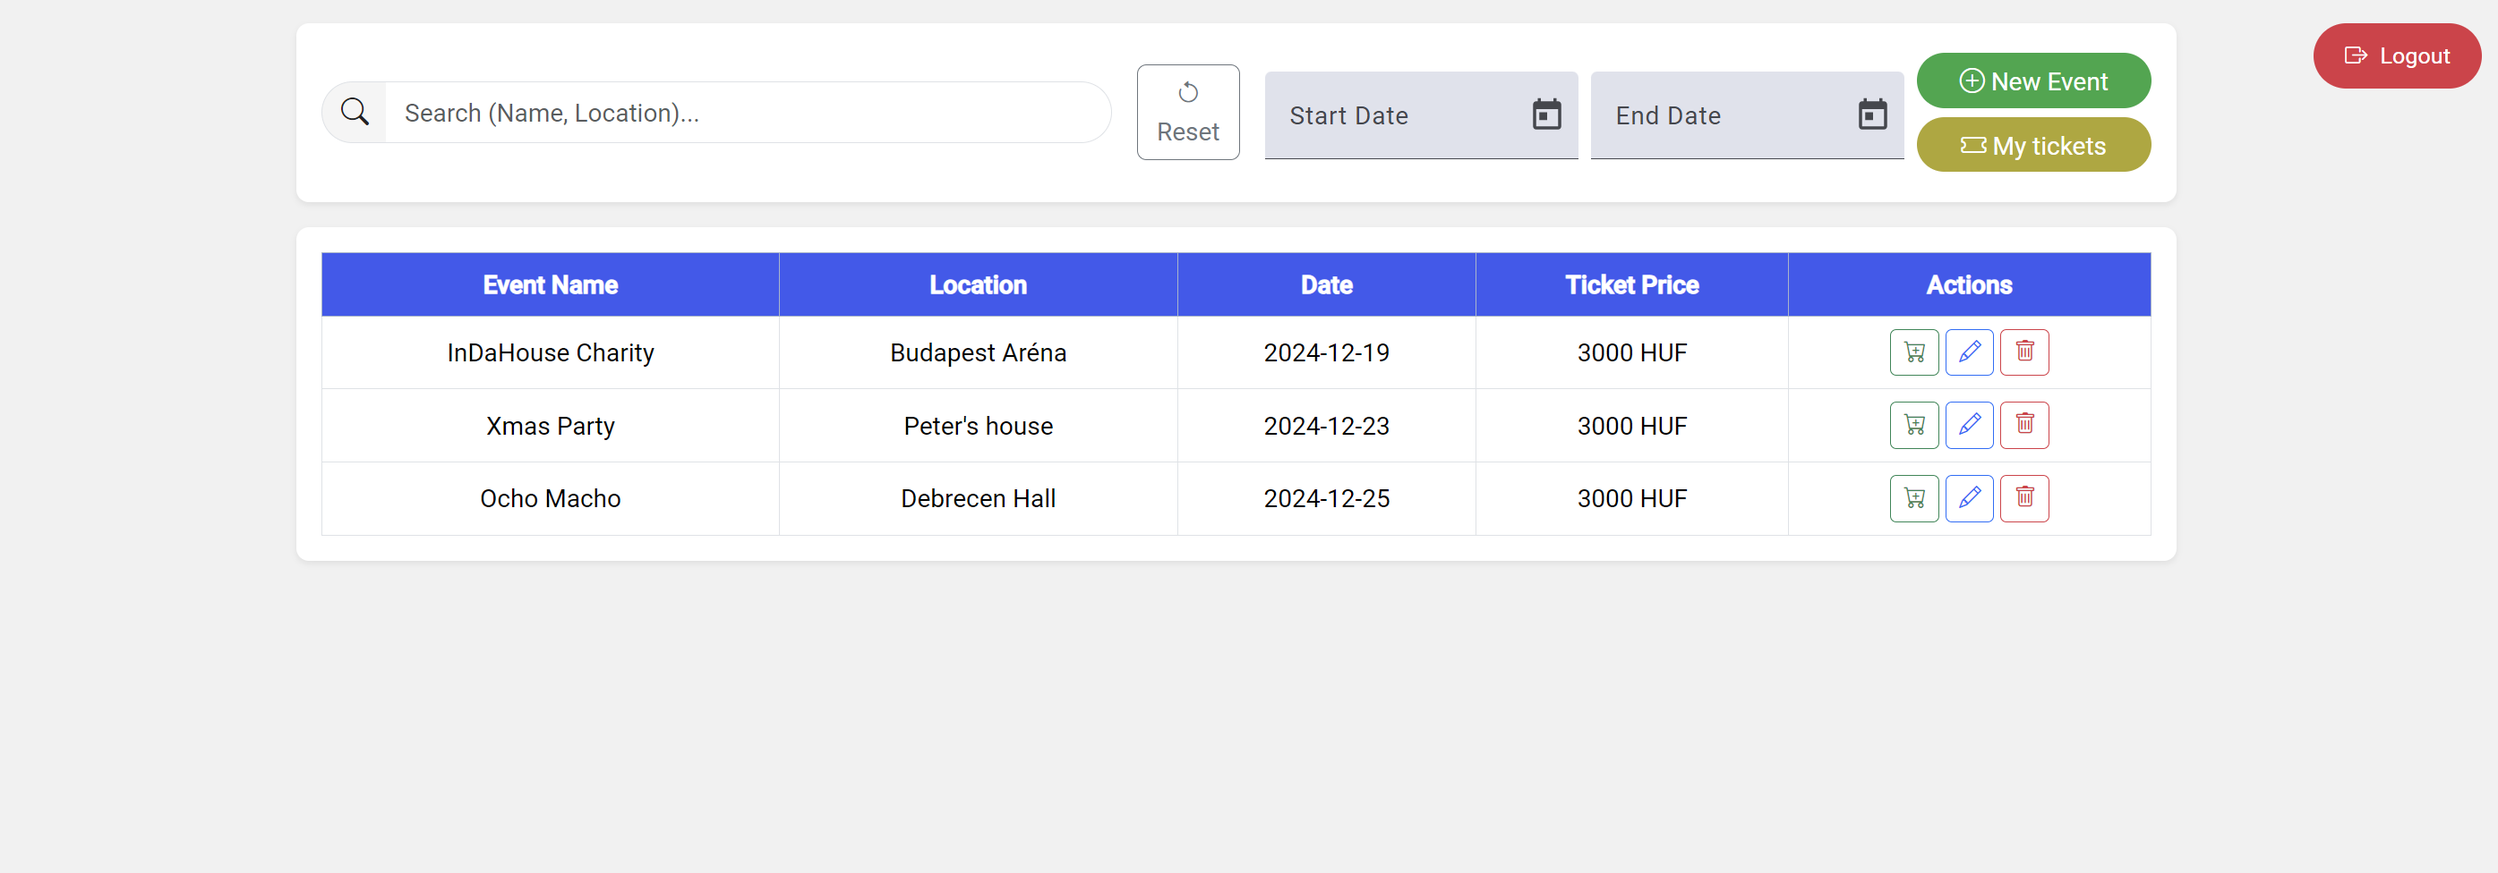
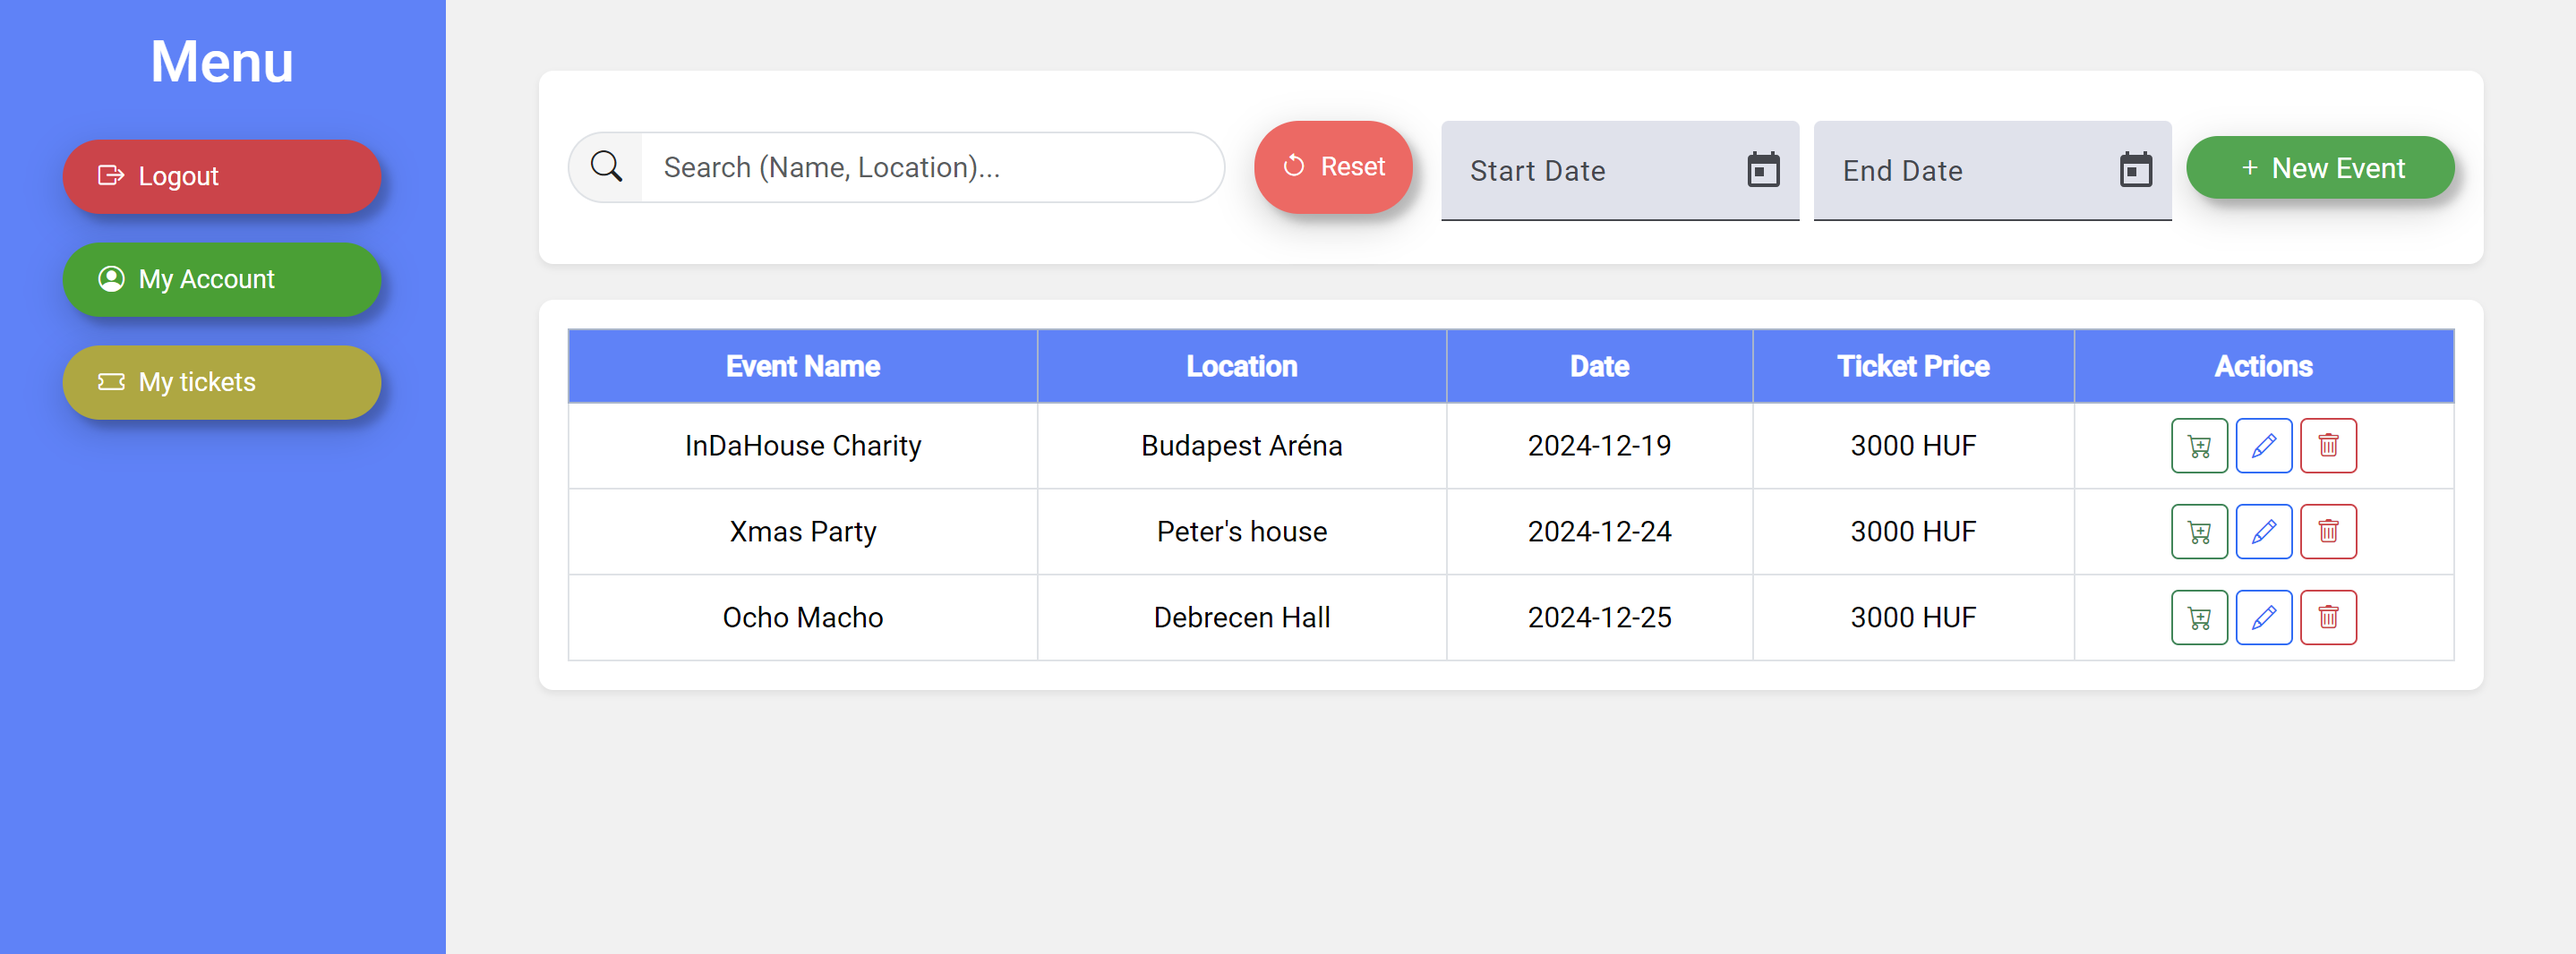
Updated Readme and sample png

diff --git a/README.md b/README.md
@@ -1,5 +1,5 @@
 # Event Organizer
-This is an Event Organizer web application built as part of a university project. It provides a simple platform for managing events, including basic CRUD operations. Users can create, read, update, and delete events. Additionally, users can buy tickets for events, view their tickets, and search for events with various filters.
+This is an Event Organizer web application built as part of a university project. It provides a simple platform for managing events, including basic CRUD operations. Additionally, users can create, view, update, delete events, search for events with various filters, buy tickets for events, view, delete their tickets,  view, update, delete their accounts.
 
 ## Events page example:
 ![](Events.png)
@@ -7,11 +7,22 @@ This is an Event Organizer web application built as part of a university project
 ## MyTickets page example:
 ![](MyTickets.png)
 
+## Participant page example:
+![](Participant.png)
+
+# Usage:
+- ### User Registration: New users can register by providing their name, email, and password.
+- ### Login: After registration, users can log in using their credentials.
+- ### Event Management: Event creators can add new events, edit existing ones, or delete events.
+- ### Ticket Management: Users can buy tickets for events and view and delete their purchased tickets under the "My Tickets" section.
+- ### Filters: The event list can be filtered by event name, location, and date range
+- ### Users can change their data (name, email, password, phone number) or even delete their account, under the "My Account" section.
+
 # Installation Instructions:
 ### 1.  Clone the repository to your local machine.
 ### 2. Install dependencies: ``` npm install```
 ### 3.  Run the backend server (Spring Boot):
-  - ### Use ```mvn spring-boot:run``` to start the backend server.
+  - ### Use ```mvn spring-boot:run``` to start the backend server in IntelliJ IDEA.
 ### 4. Run the frontend:
   - ### Use ```ng serve``` to start the frontend development server.
 ### 5. Open your browser and navigate to ```http://localhost:4200``` to access the application.
@@ -19,13 +30,6 @@ This is an Event Organizer web application built as part of a university project
 # Technologies Used:
 - ### Frontend: Angular
 - ### Backend: Java (Spring Boot)
-- ###  Database: MySQL
+- ### Database: h2Database
 - ### Authentication: JWT (JSON Web Tokens)
 - ### UI: Bootstrap, Material Design Components
-
-# Usage:
-- ### User Registration: New users can register by providing their name, email, and password.
-- ### Login: After registration, users can log in using their credentials.
-- ### Event Management: Event creators can add new events, edit existing ones, or delete events.
-- ### Ticket Management: Users can buy tickets for events and view their purchased tickets under the "My Tickets" section.
-- ### Filters: The event list can be filtered by event name, location, and date range
